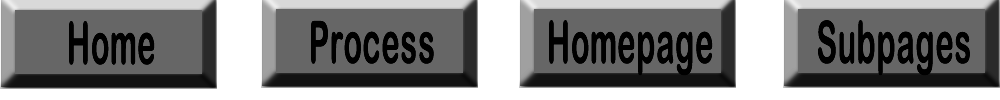
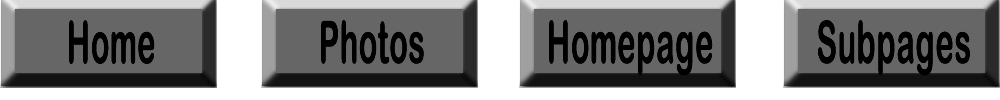
o

diff --git a/Subpages.html b/Subpages.html
@@ -24,6 +24,55 @@
 	z-index:2;
 }td img {display: block;}
 </style>
+<script language="JavaScript1.2" type="text/javascript">
+<!--
+function MM_findObj(n, d) { //v4.01
+  var p,i,x;  if(!d) d=document; if((p=n.indexOf("?"))>0&&parent.frames.length) {
+    d=parent.frames[n.substring(p+1)].document; n=n.substring(0,p);}
+  if(!(x=d[n])&&d.all) x=d.all[n]; for (i=0;!x&&i<d.forms.length;i++) x=d.forms[i][n];
+  for(i=0;!x&&d.layers&&i<d.layers.length;i++) x=MM_findObj(n,d.layers[i].document);
+  if(!x && d.getElementById) x=d.getElementById(n); return x;
+}
+function MM_nbGroup(event, grpName) { //v6.0
+var i,img,nbArr,args=MM_nbGroup.arguments;
+  if (event == "init" && args.length > 2) {
+    if ((img = MM_findObj(args[2])) != null && !img.MM_init) {
+      img.MM_init = true; img.MM_up = args[3]; img.MM_dn = img.src;
+      if ((nbArr = document[grpName]) == null) nbArr = document[grpName] = new Array();
+      nbArr[nbArr.length] = img;
+      for (i=4; i < args.length-1; i+=2) if ((img = MM_findObj(args[i])) != null) {
+        if (!img.MM_up) img.MM_up = img.src;
+        img.src = img.MM_dn = args[i+1];
+        nbArr[nbArr.length] = img;
+    } }
+  } else if (event == "over") {
+    document.MM_nbOver = nbArr = new Array();
+    for (i=1; i < args.length-1; i+=3) if ((img = MM_findObj(args[i])) != null) {
+      if (!img.MM_up) img.MM_up = img.src;
+      img.src = (img.MM_dn && args[i+2]) ? args[i+2] : ((args[i+1])?args[i+1] : img.MM_up);
+      nbArr[nbArr.length] = img;
+    }
+  } else if (event == "out" ) {
+    for (i=0; i < document.MM_nbOver.length; i++) { img = document.MM_nbOver[i]; img.src = (img.MM_dn) ? img.MM_dn : img.MM_up; }
+  } else if (event == "down") {
+    nbArr = document[grpName];
+    if (nbArr) for (i=0; i < nbArr.length; i++) { img=nbArr[i]; img.src = img.MM_up; img.MM_dn = 0; }
+    document[grpName] = nbArr = new Array();
+    for (i=2; i < args.length-1; i+=2) if ((img = MM_findObj(args[i])) != null) {
+      if (!img.MM_up) img.MM_up = img.src;
+      img.src = img.MM_dn = (args[i+1])? args[i+1] : img.MM_up;
+      nbArr[nbArr.length] = img;
+  } }
+}
+
+function MM_preloadImages() { //v3.0
+  var d=document; if(d.images){ if(!d.MM_p) d.MM_p=new Array();
+    var i,j=d.MM_p.length,a=MM_preloadImages.arguments; for(i=0; i<a.length; i++)
+    if (a[i].indexOf("#")!=0){ d.MM_p[j]=new Image; d.MM_p[j++].src=a[i];}}
+}
+
+//-->
+</script>
 </head>
 
 <body>
@@ -43,9 +92,9 @@
     <tr>
       <td><a href="Planning-site-photography.html" onmouseout="MM_nbGroup('out');" onmouseover="MM_nbGroup('over','FW_Buttons_r1_c1','../planningsite/images/FW_Buttons_r1_c1_s2.jpg','../planningsite/images/FW_Buttons_r1_c1_s3.jpg',1);" onclick="MM_nbGroup('down','navbar1','FW_Buttons_r1_c1','../planningsite/images/FW_Buttons_r1_c1_s3.jpg',1);"><img name="FW_Buttons_r1_c1" src="images/FW_Buttons_r1_c1.jpg" width="218" height="97" border="0" id="FW_Buttons_r1_c1" alt="" /></a></td>
       <td rowspan="2"><img name="FW_Buttons_r1_c2" src="images/FW_Buttons_r1_c2.jpg" width="43" height="100" border="0" id="FW_Buttons_r1_c2" alt="" /></td>
-      <td><a href="My working process.html" onmouseout="MM_nbGroup('out');" onmouseover="MM_nbGroup('over','FW_Buttons_r1_c3','../planningsite/images/FW_Buttons_r1_c3_s2.jpg','../planningsite/images/FW_Buttons_r1_c3_s3.jpg',1);" onclick="MM_nbGroup('down','navbar1','FW_Buttons_r1_c3','../planningsite/images/FW_Buttons_r1_c3_s3.jpg',1);"><img name="FW_Buttons_r1_c3" src="images/FW_Buttons_r1_c3.jpg" width="218" height="97" border="0" id="FW_Buttons_r1_c3" alt="" /></a></td>
+      <td><a href="photosforphotopage" onmouseout="MM_nbGroup('out');" onmouseover="MM_nbGroup('over','FW_Buttons_r1_c3','../planningsite/images/FW_Buttons_r1_c3_s2.jpg','../planningsite/images/FW_Buttons_r1_c3_s3.jpg',1);" onclick="MM_nbGroup('down','navbar1','FW_Buttons_r1_c3','../planningsite/images/FW_Buttons_r1_c3_s3.jpg',1);"><img name="FW_Buttons_r1_c3" src="images/FW_Buttons_r1_c3.jpg" width="218" height="97" border="0" id="FW_Buttons_r1_c3" alt="" /></a></td>
       <td rowspan="2"><img name="FW_Buttons_r1_c4" src="images/FW_Buttons_r1_c4.jpg" width="40" height="100" border="0" id="FW_Buttons_r1_c4" alt="" /></td>
-      <td><a href="index-DW.html" onmouseout="MM_nbGroup('out');" onmouseover="MM_nbGroup('over','FW_Buttons_r1_c5','../planningsite/images/FW_Buttons_r1_c5_s2.jpg','../planningsite/images/FW_Buttons_r1_c5_s3.jpg',1);" onclick="MM_nbGroup('down','navbar1','FW_Buttons_r1_c5','../planningsite/images/FW_Buttons_r1_c5_s3.jpg',1);"><img name="FW_Buttons_r1_c5" src="images/FW_Buttons_r1_c5.jpg" width="224" height="97" border="0" id="FW_Buttons_r1_c5" alt="" /></a></td>
+      <td><a href="My working process.html" onmouseout="MM_nbGroup('out');" onmouseover="MM_nbGroup('over','FW_Buttons_r1_c5','../planningsite/images/FW_Buttons_r1_c5_s2.jpg','../planningsite/images/FW_Buttons_r1_c5_s3.jpg',1);" onclick="MM_nbGroup('down','navbar1','FW_Buttons_r1_c5','../planningsite/images/FW_Buttons_r1_c5_s3.jpg',1);"><img name="FW_Buttons_r1_c5" src="images/FW_Buttons_r1_c5.jpg" width="224" height="97" border="0" id="FW_Buttons_r1_c5" alt="" /></a></td>
       <td rowspan="2"><img name="FW_Buttons_r1_c6" src="images/FW_Buttons_r1_c6.jpg" width="40" height="100" border="0" id="FW_Buttons_r1_c6" alt="" /></td>
       <td><a href="Subpages.html" onmouseout="MM_nbGroup('out');" onmouseover="MM_nbGroup('over','FW_Buttons_r1_c7','../planningsite/images/FW_Buttons_r1_c7_s2.jpg','../planningsite/images/FW_Buttons_r1_c7_s3.jpg',1);" onclick="MM_nbGroup('down','navbar1','FW_Buttons_r1_c7','../planningsite/images/FW_Buttons_r1_c7_s3.jpg',1);"><img name="FW_Buttons_r1_c7" src="images/FW_Buttons_r1_c7.jpg" width="217" height="97" border="0" id="FW_Buttons_r1_c7" alt="" /></a></td>
       <td><img src="images/spacer.gif" width="1" height="97" border="0" alt="" /></td>
@@ -92,15 +141,7 @@
      <li><a href="CONTACTUS.html">Contact us page</a></li>
 
 <h3>Making buttons</h3>
-<ul>Procedures
-  <li>1. Use rectangular tool to create a box</li>
-  <li>2. Use text tool to name the box</li>
-  <li>3. Filters tool, bevel and emboss tool, inner bevel</li>
-  <li>4.Select the box and text, convert to symbol</li>
-  <li>5. Remember to drag replicated boxes out from the document library</li>
-  <li>6.Edit each state</li>
-  <li>7.Double click on each box and rename them</li>
-</ul>
+<a href="navigation.html"/>
 <h4>Sample</h4>
 <img src="buttons.png" alt="buttons" height="200" width="500" />
 <a href="file://localhost/Users/CTD-01/Library/Application%20Support/Adobe/Fireworks%20CS5/FWTemp/182012/00000002.htm">

diff --git a/Planning-site-photography.html b/Planning-site-photography.html
@@ -1,5 +1,5 @@
 <!DOCTYPE html PUBLIC "-//W3C//DTD XHTML 1.0 Transitional//EN" "http://www.w3.org/TR/xhtml1/DTD/xhtml1-transitional.dtd">
-<html xmlns="http://www.w3.org/1999/xhtml"><head></head><!-- InstanceBegin template="/Templates/templateforplanningsite(real).dwt" codeOutsideHTMLIsLocked="false" -->
+<html xmlns="http://www.w3.org/1999/xhtml"><!-- InstanceBegin template="/Templates/templateforplanningsite(real).dwt" codeOutsideHTMLIsLocked="false" -->
 <head>
 <meta http-equiv="Content-Type" content="text/html; charset=UTF-8" />
 <!-- InstanceBeginEditable name="doctitle" -->
@@ -24,6 +24,55 @@
 	z-index:2;
 }td img {display: block;}
 </style>
+<script language="JavaScript1.2" type="text/javascript">
+<!--
+function MM_findObj(n, d) { //v4.01
+  var p,i,x;  if(!d) d=document; if((p=n.indexOf("?"))>0&&parent.frames.length) {
+    d=parent.frames[n.substring(p+1)].document; n=n.substring(0,p);}
+  if(!(x=d[n])&&d.all) x=d.all[n]; for (i=0;!x&&i<d.forms.length;i++) x=d.forms[i][n];
+  for(i=0;!x&&d.layers&&i<d.layers.length;i++) x=MM_findObj(n,d.layers[i].document);
+  if(!x && d.getElementById) x=d.getElementById(n); return x;
+}
+function MM_nbGroup(event, grpName) { //v6.0
+var i,img,nbArr,args=MM_nbGroup.arguments;
+  if (event == "init" && args.length > 2) {
+    if ((img = MM_findObj(args[2])) != null && !img.MM_init) {
+      img.MM_init = true; img.MM_up = args[3]; img.MM_dn = img.src;
+      if ((nbArr = document[grpName]) == null) nbArr = document[grpName] = new Array();
+      nbArr[nbArr.length] = img;
+      for (i=4; i < args.length-1; i+=2) if ((img = MM_findObj(args[i])) != null) {
+        if (!img.MM_up) img.MM_up = img.src;
+        img.src = img.MM_dn = args[i+1];
+        nbArr[nbArr.length] = img;
+    } }
+  } else if (event == "over") {
+    document.MM_nbOver = nbArr = new Array();
+    for (i=1; i < args.length-1; i+=3) if ((img = MM_findObj(args[i])) != null) {
+      if (!img.MM_up) img.MM_up = img.src;
+      img.src = (img.MM_dn && args[i+2]) ? args[i+2] : ((args[i+1])?args[i+1] : img.MM_up);
+      nbArr[nbArr.length] = img;
+    }
+  } else if (event == "out" ) {
+    for (i=0; i < document.MM_nbOver.length; i++) { img = document.MM_nbOver[i]; img.src = (img.MM_dn) ? img.MM_dn : img.MM_up; }
+  } else if (event == "down") {
+    nbArr = document[grpName];
+    if (nbArr) for (i=0; i < nbArr.length; i++) { img=nbArr[i]; img.src = img.MM_up; img.MM_dn = 0; }
+    document[grpName] = nbArr = new Array();
+    for (i=2; i < args.length-1; i+=2) if ((img = MM_findObj(args[i])) != null) {
+      if (!img.MM_up) img.MM_up = img.src;
+      img.src = img.MM_dn = (args[i+1])? args[i+1] : img.MM_up;
+      nbArr[nbArr.length] = img;
+  } }
+}
+
+function MM_preloadImages() { //v3.0
+  var d=document; if(d.images){ if(!d.MM_p) d.MM_p=new Array();
+    var i,j=d.MM_p.length,a=MM_preloadImages.arguments; for(i=0; i<a.length; i++)
+    if (a[i].indexOf("#")!=0){ d.MM_p[j]=new Image; d.MM_p[j++].src=a[i];}}
+}
+
+//-->
+</script>
 </head>
 
 <body>
@@ -41,9 +90,9 @@
       <td><img src="images/spacer.gif" width="1" height="1" border="0" alt="" /></td>
     </tr>
     <tr>
-      <td><a href="photos/index.html" onmouseout="MM_nbGroup('out');" onmouseover="MM_nbGroup('over','FW_Buttons_r1_c1','../planningsite/images/FW_Buttons_r1_c1_s2.jpg','../planningsite/images/FW_Buttons_r1_c1_s3.jpg',1);" onclick="MM_nbGroup('down','navbar1','FW_Buttons_r1_c1','../planningsite/images/FW_Buttons_r1_c1_s3.jpg',1);"><img name="FW_Buttons_r1_c1" src="images/FW_Buttons_r1_c1.jpg" width="218" height="97" border="0" id="FW_Buttons_r1_c1" alt="" /></a></td>
+      <td><a href="Planning-site-photography.html" onmouseout="MM_nbGroup('out');" onmouseover="MM_nbGroup('over','FW_Buttons_r1_c1','../planningsite/images/FW_Buttons_r1_c1_s2.jpg','../planningsite/images/FW_Buttons_r1_c1_s3.jpg',1);" onclick="MM_nbGroup('down','navbar1','FW_Buttons_r1_c1','../planningsite/images/FW_Buttons_r1_c1_s3.jpg',1);"><img name="FW_Buttons_r1_c1" src="images/FW_Buttons_r1_c1.jpg" width="218" height="97" border="0" id="FW_Buttons_r1_c1" alt="" /></a></td>
       <td rowspan="2"><img name="FW_Buttons_r1_c2" src="images/FW_Buttons_r1_c2.jpg" width="43" height="100" border="0" id="FW_Buttons_r1_c2" alt="" /></td>
-      <td><a href="javascript:;" onmouseout="MM_nbGroup('out');" onmouseover="MM_nbGroup('over','FW_Buttons_r1_c3','../planningsite/images/FW_Buttons_r1_c3_s2.jpg','../planningsite/images/FW_Buttons_r1_c3_s3.jpg',1);" onclick="MM_nbGroup('down','navbar1','FW_Buttons_r1_c3','../planningsite/images/FW_Buttons_r1_c3_s3.jpg',1);"><img name="FW_Buttons_r1_c3" src="images/FW_Buttons_r1_c3.jpg" width="218" height="97" border="0" id="FW_Buttons_r1_c3" alt="" /></a></td>
+      <td><a href="photosforphotopage" onmouseout="MM_nbGroup('out');" onmouseover="MM_nbGroup('over','FW_Buttons_r1_c3','../planningsite/images/FW_Buttons_r1_c3_s2.jpg','../planningsite/images/FW_Buttons_r1_c3_s3.jpg',1);" onclick="MM_nbGroup('down','navbar1','FW_Buttons_r1_c3','../planningsite/images/FW_Buttons_r1_c3_s3.jpg',1);"><img name="FW_Buttons_r1_c3" src="images/FW_Buttons_r1_c3.jpg" width="218" height="97" border="0" id="FW_Buttons_r1_c3" alt="" /></a></td>
       <td rowspan="2"><img name="FW_Buttons_r1_c4" src="images/FW_Buttons_r1_c4.jpg" width="40" height="100" border="0" id="FW_Buttons_r1_c4" alt="" /></td>
       <td><a href="My working process.html" onmouseout="MM_nbGroup('out');" onmouseover="MM_nbGroup('over','FW_Buttons_r1_c5','../planningsite/images/FW_Buttons_r1_c5_s2.jpg','../planningsite/images/FW_Buttons_r1_c5_s3.jpg',1);" onclick="MM_nbGroup('down','navbar1','FW_Buttons_r1_c5','../planningsite/images/FW_Buttons_r1_c5_s3.jpg',1);"><img name="FW_Buttons_r1_c5" src="images/FW_Buttons_r1_c5.jpg" width="224" height="97" border="0" id="FW_Buttons_r1_c5" alt="" /></a></td>
       <td rowspan="2"><img name="FW_Buttons_r1_c6" src="images/FW_Buttons_r1_c6.jpg" width="40" height="100" border="0" id="FW_Buttons_r1_c6" alt="" /></td>

diff --git a/My working process.html b/My working process.html
@@ -25,6 +25,55 @@
 	z-index:2;
 }td img {display: block;}
 </style>
+<script language="JavaScript1.2" type="text/javascript">
+<!--
+function MM_findObj(n, d) { //v4.01
+  var p,i,x;  if(!d) d=document; if((p=n.indexOf("?"))>0&&parent.frames.length) {
+    d=parent.frames[n.substring(p+1)].document; n=n.substring(0,p);}
+  if(!(x=d[n])&&d.all) x=d.all[n]; for (i=0;!x&&i<d.forms.length;i++) x=d.forms[i][n];
+  for(i=0;!x&&d.layers&&i<d.layers.length;i++) x=MM_findObj(n,d.layers[i].document);
+  if(!x && d.getElementById) x=d.getElementById(n); return x;
+}
+function MM_nbGroup(event, grpName) { //v6.0
+var i,img,nbArr,args=MM_nbGroup.arguments;
+  if (event == "init" && args.length > 2) {
+    if ((img = MM_findObj(args[2])) != null && !img.MM_init) {
+      img.MM_init = true; img.MM_up = args[3]; img.MM_dn = img.src;
+      if ((nbArr = document[grpName]) == null) nbArr = document[grpName] = new Array();
+      nbArr[nbArr.length] = img;
+      for (i=4; i < args.length-1; i+=2) if ((img = MM_findObj(args[i])) != null) {
+        if (!img.MM_up) img.MM_up = img.src;
+        img.src = img.MM_dn = args[i+1];
+        nbArr[nbArr.length] = img;
+    } }
+  } else if (event == "over") {
+    document.MM_nbOver = nbArr = new Array();
+    for (i=1; i < args.length-1; i+=3) if ((img = MM_findObj(args[i])) != null) {
+      if (!img.MM_up) img.MM_up = img.src;
+      img.src = (img.MM_dn && args[i+2]) ? args[i+2] : ((args[i+1])?args[i+1] : img.MM_up);
+      nbArr[nbArr.length] = img;
+    }
+  } else if (event == "out" ) {
+    for (i=0; i < document.MM_nbOver.length; i++) { img = document.MM_nbOver[i]; img.src = (img.MM_dn) ? img.MM_dn : img.MM_up; }
+  } else if (event == "down") {
+    nbArr = document[grpName];
+    if (nbArr) for (i=0; i < nbArr.length; i++) { img=nbArr[i]; img.src = img.MM_up; img.MM_dn = 0; }
+    document[grpName] = nbArr = new Array();
+    for (i=2; i < args.length-1; i+=2) if ((img = MM_findObj(args[i])) != null) {
+      if (!img.MM_up) img.MM_up = img.src;
+      img.src = img.MM_dn = (args[i+1])? args[i+1] : img.MM_up;
+      nbArr[nbArr.length] = img;
+  } }
+}
+
+function MM_preloadImages() { //v3.0
+  var d=document; if(d.images){ if(!d.MM_p) d.MM_p=new Array();
+    var i,j=d.MM_p.length,a=MM_preloadImages.arguments; for(i=0; i<a.length; i++)
+    if (a[i].indexOf("#")!=0){ d.MM_p[j]=new Image; d.MM_p[j++].src=a[i];}}
+}
+
+//-->
+</script>
 </head>
 
 <body>
@@ -44,9 +93,9 @@
     <tr>
       <td><a href="Planning-site-photography.html" onmouseout="MM_nbGroup('out');" onmouseover="MM_nbGroup('over','FW_Buttons_r1_c1','../planningsite/images/FW_Buttons_r1_c1_s2.jpg','../planningsite/images/FW_Buttons_r1_c1_s3.jpg',1);" onclick="MM_nbGroup('down','navbar1','FW_Buttons_r1_c1','../planningsite/images/FW_Buttons_r1_c1_s3.jpg',1);"><img name="FW_Buttons_r1_c1" src="images/FW_Buttons_r1_c1.jpg" width="218" height="97" border="0" id="FW_Buttons_r1_c1" alt="" /></a></td>
       <td rowspan="2"><img name="FW_Buttons_r1_c2" src="images/FW_Buttons_r1_c2.jpg" width="43" height="100" border="0" id="FW_Buttons_r1_c2" alt="" /></td>
-      <td><a href="My working process.html" onmouseout="MM_nbGroup('out');" onmouseover="MM_nbGroup('over','FW_Buttons_r1_c3','../planningsite/images/FW_Buttons_r1_c3_s2.jpg','../planningsite/images/FW_Buttons_r1_c3_s3.jpg',1);" onclick="MM_nbGroup('down','navbar1','FW_Buttons_r1_c3','../planningsite/images/FW_Buttons_r1_c3_s3.jpg',1);"><img name="FW_Buttons_r1_c3" src="images/FW_Buttons_r1_c3.jpg" width="218" height="97" border="0" id="FW_Buttons_r1_c3" alt="" /></a></td>
+      <td><a href="photosforphotopage" onmouseout="MM_nbGroup('out');" onmouseover="MM_nbGroup('over','FW_Buttons_r1_c3','../planningsite/images/FW_Buttons_r1_c3_s2.jpg','../planningsite/images/FW_Buttons_r1_c3_s3.jpg',1);" onclick="MM_nbGroup('down','navbar1','FW_Buttons_r1_c3','../planningsite/images/FW_Buttons_r1_c3_s3.jpg',1);"><img name="FW_Buttons_r1_c3" src="images/FW_Buttons_r1_c3.jpg" width="218" height="97" border="0" id="FW_Buttons_r1_c3" alt="" /></a></td>
       <td rowspan="2"><img name="FW_Buttons_r1_c4" src="images/FW_Buttons_r1_c4.jpg" width="40" height="100" border="0" id="FW_Buttons_r1_c4" alt="" /></td>
-      <td><a href="index-DW.html" onmouseout="MM_nbGroup('out');" onmouseover="MM_nbGroup('over','FW_Buttons_r1_c5','../planningsite/images/FW_Buttons_r1_c5_s2.jpg','../planningsite/images/FW_Buttons_r1_c5_s3.jpg',1);" onclick="MM_nbGroup('down','navbar1','FW_Buttons_r1_c5','../planningsite/images/FW_Buttons_r1_c5_s3.jpg',1);"><img name="FW_Buttons_r1_c5" src="images/FW_Buttons_r1_c5.jpg" width="224" height="97" border="0" id="FW_Buttons_r1_c5" alt="" /></a></td>
+      <td><a href="My working process.html" onmouseout="MM_nbGroup('out');" onmouseover="MM_nbGroup('over','FW_Buttons_r1_c5','../planningsite/images/FW_Buttons_r1_c5_s2.jpg','../planningsite/images/FW_Buttons_r1_c5_s3.jpg',1);" onclick="MM_nbGroup('down','navbar1','FW_Buttons_r1_c5','../planningsite/images/FW_Buttons_r1_c5_s3.jpg',1);"><img name="FW_Buttons_r1_c5" src="images/FW_Buttons_r1_c5.jpg" width="224" height="97" border="0" id="FW_Buttons_r1_c5" alt="" /></a></td>
       <td rowspan="2"><img name="FW_Buttons_r1_c6" src="images/FW_Buttons_r1_c6.jpg" width="40" height="100" border="0" id="FW_Buttons_r1_c6" alt="" /></td>
       <td><a href="Subpages.html" onmouseout="MM_nbGroup('out');" onmouseover="MM_nbGroup('over','FW_Buttons_r1_c7','../planningsite/images/FW_Buttons_r1_c7_s2.jpg','../planningsite/images/FW_Buttons_r1_c7_s3.jpg',1);" onclick="MM_nbGroup('down','navbar1','FW_Buttons_r1_c7','../planningsite/images/FW_Buttons_r1_c7_s3.jpg',1);"><img name="FW_Buttons_r1_c7" src="images/FW_Buttons_r1_c7.jpg" width="217" height="97" border="0" id="FW_Buttons_r1_c7" alt="" /></a></td>
       <td><img src="images/spacer.gif" width="1" height="97" border="0" alt="" /></td>

diff --git a/photos/index.html b/photos/index.html
@@ -25,6 +25,55 @@
 	z-index:2;
 }td img {display: block;}
 </style>
+<script language="JavaScript1.2" type="text/javascript">
+<!--
+function MM_findObj(n, d) { //v4.01
+  var p,i,x;  if(!d) d=document; if((p=n.indexOf("?"))>0&&parent.frames.length) {
+    d=parent.frames[n.substring(p+1)].document; n=n.substring(0,p);}
+  if(!(x=d[n])&&d.all) x=d.all[n]; for (i=0;!x&&i<d.forms.length;i++) x=d.forms[i][n];
+  for(i=0;!x&&d.layers&&i<d.layers.length;i++) x=MM_findObj(n,d.layers[i].document);
+  if(!x && d.getElementById) x=d.getElementById(n); return x;
+}
+function MM_nbGroup(event, grpName) { //v6.0
+var i,img,nbArr,args=MM_nbGroup.arguments;
+  if (event == "init" && args.length > 2) {
+    if ((img = MM_findObj(args[2])) != null && !img.MM_init) {
+      img.MM_init = true; img.MM_up = args[3]; img.MM_dn = img.src;
+      if ((nbArr = document[grpName]) == null) nbArr = document[grpName] = new Array();
+      nbArr[nbArr.length] = img;
+      for (i=4; i < args.length-1; i+=2) if ((img = MM_findObj(args[i])) != null) {
+        if (!img.MM_up) img.MM_up = img.src;
+        img.src = img.MM_dn = args[i+1];
+        nbArr[nbArr.length] = img;
+    } }
+  } else if (event == "over") {
+    document.MM_nbOver = nbArr = new Array();
+    for (i=1; i < args.length-1; i+=3) if ((img = MM_findObj(args[i])) != null) {
+      if (!img.MM_up) img.MM_up = img.src;
+      img.src = (img.MM_dn && args[i+2]) ? args[i+2] : ((args[i+1])?args[i+1] : img.MM_up);
+      nbArr[nbArr.length] = img;
+    }
+  } else if (event == "out" ) {
+    for (i=0; i < document.MM_nbOver.length; i++) { img = document.MM_nbOver[i]; img.src = (img.MM_dn) ? img.MM_dn : img.MM_up; }
+  } else if (event == "down") {
+    nbArr = document[grpName];
+    if (nbArr) for (i=0; i < nbArr.length; i++) { img=nbArr[i]; img.src = img.MM_up; img.MM_dn = 0; }
+    document[grpName] = nbArr = new Array();
+    for (i=2; i < args.length-1; i+=2) if ((img = MM_findObj(args[i])) != null) {
+      if (!img.MM_up) img.MM_up = img.src;
+      img.src = img.MM_dn = (args[i+1])? args[i+1] : img.MM_up;
+      nbArr[nbArr.length] = img;
+  } }
+}
+
+function MM_preloadImages() { //v3.0
+  var d=document; if(d.images){ if(!d.MM_p) d.MM_p=new Array();
+    var i,j=d.MM_p.length,a=MM_preloadImages.arguments; for(i=0; i<a.length; i++)
+    if (a[i].indexOf("#")!=0){ d.MM_p[j]=new Image; d.MM_p[j++].src=a[i];}}
+}
+
+//-->
+</script>
 </head>
 
 <body>
@@ -42,9 +91,9 @@
       <td><img src="../images/spacer.gif" width="1" height="1" border="0" alt="" /></td>
     </tr>
     <tr>
-      <td><a href="index.html" onmouseout="MM_nbGroup('out');" onmouseover="MM_nbGroup('over','FW_Buttons_r1_c1','../planningsite/images/FW_Buttons_r1_c1_s2.jpg','../planningsite/images/FW_Buttons_r1_c1_s3.jpg',1);" onclick="MM_nbGroup('down','navbar1','FW_Buttons_r1_c1','../planningsite/images/FW_Buttons_r1_c1_s3.jpg',1);"><img name="FW_Buttons_r1_c1" src="../images/FW_Buttons_r1_c1.jpg" width="218" height="97" border="0" id="FW_Buttons_r1_c1" alt="" /></a></td>
+      <td><a href="../Planning-site-photography.html" onmouseout="MM_nbGroup('out');" onmouseover="MM_nbGroup('over','FW_Buttons_r1_c1','../planningsite/images/FW_Buttons_r1_c1_s2.jpg','../planningsite/images/FW_Buttons_r1_c1_s3.jpg',1);" onclick="MM_nbGroup('down','navbar1','FW_Buttons_r1_c1','../planningsite/images/FW_Buttons_r1_c1_s3.jpg',1);"><img name="FW_Buttons_r1_c1" src="../images/FW_Buttons_r1_c1.jpg" width="218" height="97" border="0" id="FW_Buttons_r1_c1" alt="" /></a></td>
       <td rowspan="2"><img name="FW_Buttons_r1_c2" src="../images/FW_Buttons_r1_c2.jpg" width="43" height="100" border="0" id="FW_Buttons_r1_c2" alt="" /></td>
-      <td><a href="javascript:;" onmouseout="MM_nbGroup('out');" onmouseover="MM_nbGroup('over','FW_Buttons_r1_c3','../planningsite/images/FW_Buttons_r1_c3_s2.jpg','../planningsite/images/FW_Buttons_r1_c3_s3.jpg',1);" onclick="MM_nbGroup('down','navbar1','FW_Buttons_r1_c3','../planningsite/images/FW_Buttons_r1_c3_s3.jpg',1);"><img name="FW_Buttons_r1_c3" src="../images/FW_Buttons_r1_c3.jpg" width="218" height="97" border="0" id="FW_Buttons_r1_c3" alt="" /></a></td>
+      <td><a href="../photosforphotopage" onmouseout="MM_nbGroup('out');" onmouseover="MM_nbGroup('over','FW_Buttons_r1_c3','../planningsite/images/FW_Buttons_r1_c3_s2.jpg','../planningsite/images/FW_Buttons_r1_c3_s3.jpg',1);" onclick="MM_nbGroup('down','navbar1','FW_Buttons_r1_c3','../planningsite/images/FW_Buttons_r1_c3_s3.jpg',1);"><img name="FW_Buttons_r1_c3" src="../images/FW_Buttons_r1_c3.jpg" width="218" height="97" border="0" id="FW_Buttons_r1_c3" alt="" /></a></td>
       <td rowspan="2"><img name="FW_Buttons_r1_c4" src="../images/FW_Buttons_r1_c4.jpg" width="40" height="100" border="0" id="FW_Buttons_r1_c4" alt="" /></td>
       <td><a href="../My working process.html" onmouseout="MM_nbGroup('out');" onmouseover="MM_nbGroup('over','FW_Buttons_r1_c5','../planningsite/images/FW_Buttons_r1_c5_s2.jpg','../planningsite/images/FW_Buttons_r1_c5_s3.jpg',1);" onclick="MM_nbGroup('down','navbar1','FW_Buttons_r1_c5','../planningsite/images/FW_Buttons_r1_c5_s3.jpg',1);"><img name="FW_Buttons_r1_c5" src="../images/FW_Buttons_r1_c5.jpg" width="224" height="97" border="0" id="FW_Buttons_r1_c5" alt="" /></a></td>
       <td rowspan="2"><img name="FW_Buttons_r1_c6" src="../images/FW_Buttons_r1_c6.jpg" width="40" height="100" border="0" id="FW_Buttons_r1_c6" alt="" /></td>

diff --git a/index-DW.html b/index-DW.html
@@ -141,6 +141,55 @@
 	z-index:2;
 }td img {display: block;}
 </style>
+<script language="JavaScript1.2" type="text/javascript">
+<!--
+function MM_findObj(n, d) { //v4.01
+  var p,i,x;  if(!d) d=document; if((p=n.indexOf("?"))>0&&parent.frames.length) {
+    d=parent.frames[n.substring(p+1)].document; n=n.substring(0,p);}
+  if(!(x=d[n])&&d.all) x=d.all[n]; for (i=0;!x&&i<d.forms.length;i++) x=d.forms[i][n];
+  for(i=0;!x&&d.layers&&i<d.layers.length;i++) x=MM_findObj(n,d.layers[i].document);
+  if(!x && d.getElementById) x=d.getElementById(n); return x;
+}
+function MM_nbGroup(event, grpName) { //v6.0
+var i,img,nbArr,args=MM_nbGroup.arguments;
+  if (event == "init" && args.length > 2) {
+    if ((img = MM_findObj(args[2])) != null && !img.MM_init) {
+      img.MM_init = true; img.MM_up = args[3]; img.MM_dn = img.src;
+      if ((nbArr = document[grpName]) == null) nbArr = document[grpName] = new Array();
+      nbArr[nbArr.length] = img;
+      for (i=4; i < args.length-1; i+=2) if ((img = MM_findObj(args[i])) != null) {
+        if (!img.MM_up) img.MM_up = img.src;
+        img.src = img.MM_dn = args[i+1];
+        nbArr[nbArr.length] = img;
+    } }
+  } else if (event == "over") {
+    document.MM_nbOver = nbArr = new Array();
+    for (i=1; i < args.length-1; i+=3) if ((img = MM_findObj(args[i])) != null) {
+      if (!img.MM_up) img.MM_up = img.src;
+      img.src = (img.MM_dn && args[i+2]) ? args[i+2] : ((args[i+1])?args[i+1] : img.MM_up);
+      nbArr[nbArr.length] = img;
+    }
+  } else if (event == "out" ) {
+    for (i=0; i < document.MM_nbOver.length; i++) { img = document.MM_nbOver[i]; img.src = (img.MM_dn) ? img.MM_dn : img.MM_up; }
+  } else if (event == "down") {
+    nbArr = document[grpName];
+    if (nbArr) for (i=0; i < nbArr.length; i++) { img=nbArr[i]; img.src = img.MM_up; img.MM_dn = 0; }
+    document[grpName] = nbArr = new Array();
+    for (i=2; i < args.length-1; i+=2) if ((img = MM_findObj(args[i])) != null) {
+      if (!img.MM_up) img.MM_up = img.src;
+      img.src = img.MM_dn = (args[i+1])? args[i+1] : img.MM_up;
+      nbArr[nbArr.length] = img;
+  } }
+}
+
+function MM_preloadImages() { //v3.0
+  var d=document; if(d.images){ if(!d.MM_p) d.MM_p=new Array();
+    var i,j=d.MM_p.length,a=MM_preloadImages.arguments; for(i=0; i<a.length; i++)
+    if (a[i].indexOf("#")!=0){ d.MM_p[j]=new Image; d.MM_p[j++].src=a[i];}}
+}
+
+//-->
+</script>
 </head>
 
 <body>
@@ -158,9 +207,9 @@
       <td><img src="images/spacer.gif" width="1" height="1" border="0" alt="" /></td>
     </tr>
     <tr>
-      <td><a href="photos/index.html" onmouseout="MM_nbGroup('out');" onmouseover="MM_nbGroup('over','FW_Buttons_r1_c1','../planningsite/images/FW_Buttons_r1_c1_s2.jpg','../planningsite/images/FW_Buttons_r1_c1_s3.jpg',1);" onclick="MM_nbGroup('down','navbar1','FW_Buttons_r1_c1','../planningsite/images/FW_Buttons_r1_c1_s3.jpg',1);"><img name="FW_Buttons_r1_c1" src="images/FW_Buttons_r1_c1.jpg" width="218" height="97" border="0" id="FW_Buttons_r1_c1" alt="" /></a></td>
+      <td><a href="Planning-site-photography.html" onmouseout="MM_nbGroup('out');" onmouseover="MM_nbGroup('over','FW_Buttons_r1_c1','../planningsite/images/FW_Buttons_r1_c1_s2.jpg','../planningsite/images/FW_Buttons_r1_c1_s3.jpg',1);" onclick="MM_nbGroup('down','navbar1','FW_Buttons_r1_c1','../planningsite/images/FW_Buttons_r1_c1_s3.jpg',1);"><img name="FW_Buttons_r1_c1" src="images/FW_Buttons_r1_c1.jpg" width="218" height="97" border="0" id="FW_Buttons_r1_c1" alt="" /></a></td>
       <td rowspan="2"><img name="FW_Buttons_r1_c2" src="images/FW_Buttons_r1_c2.jpg" width="43" height="100" border="0" id="FW_Buttons_r1_c2" alt="" /></td>
-      <td><a href="javascript:;" onmouseout="MM_nbGroup('out');" onmouseover="MM_nbGroup('over','FW_Buttons_r1_c3','../planningsite/images/FW_Buttons_r1_c3_s2.jpg','../planningsite/images/FW_Buttons_r1_c3_s3.jpg',1);" onclick="MM_nbGroup('down','navbar1','FW_Buttons_r1_c3','../planningsite/images/FW_Buttons_r1_c3_s3.jpg',1);"><img name="FW_Buttons_r1_c3" src="images/FW_Buttons_r1_c3.jpg" width="218" height="97" border="0" id="FW_Buttons_r1_c3" alt="" /></a></td>
+      <td><a href="photosforphotopage" onmouseout="MM_nbGroup('out');" onmouseover="MM_nbGroup('over','FW_Buttons_r1_c3','../planningsite/images/FW_Buttons_r1_c3_s2.jpg','../planningsite/images/FW_Buttons_r1_c3_s3.jpg',1);" onclick="MM_nbGroup('down','navbar1','FW_Buttons_r1_c3','../planningsite/images/FW_Buttons_r1_c3_s3.jpg',1);"><img name="FW_Buttons_r1_c3" src="images/FW_Buttons_r1_c3.jpg" width="218" height="97" border="0" id="FW_Buttons_r1_c3" alt="" /></a></td>
       <td rowspan="2"><img name="FW_Buttons_r1_c4" src="images/FW_Buttons_r1_c4.jpg" width="40" height="100" border="0" id="FW_Buttons_r1_c4" alt="" /></td>
       <td><a href="My working process.html" onmouseout="MM_nbGroup('out');" onmouseover="MM_nbGroup('over','FW_Buttons_r1_c5','../planningsite/images/FW_Buttons_r1_c5_s2.jpg','../planningsite/images/FW_Buttons_r1_c5_s3.jpg',1);" onclick="MM_nbGroup('down','navbar1','FW_Buttons_r1_c5','../planningsite/images/FW_Buttons_r1_c5_s3.jpg',1);"><img name="FW_Buttons_r1_c5" src="images/FW_Buttons_r1_c5.jpg" width="224" height="97" border="0" id="FW_Buttons_r1_c5" alt="" /></a></td>
       <td rowspan="2"><img name="FW_Buttons_r1_c6" src="images/FW_Buttons_r1_c6.jpg" width="40" height="100" border="0" id="FW_Buttons_r1_c6" alt="" /></td>

diff --git a/navigation.html b/navigation.html
@@ -1,0 +1,18 @@
+<!Doctype>
+<html>
+<head>Navigation
+</head>
+<h2>Making graphical navigation buttons from FW</h2>
+<h3>How to create buttons in FW?</h3>
+<ul>Procedures
+  <li>1. Use rectangular tool to create a box</li>
+  <li>2. Use text tool to name the box</li>
+  <li>3. Filters tool, bevel and emboss tool, inner bevel</li>
+  <li>4.Select the box and text, convert to symbol</li>
+  <li>5. Remember to drag replicated boxes out from the document library</li>
+  <li>6.Edit each state</li>
+  <li>7.Double click on each box and rename them</li>
+</ul>
+<body>
+</body>
+</html>
